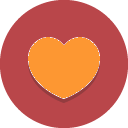
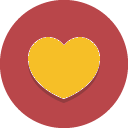
Implemented db save to favorites and updated workflow

Changed region(s): [[0.2188, 0.2812, 0.7812, 0.7812]]

diff --git a/flaskapp/templates/results.html b/flaskapp/templates/results.html
@@ -3,7 +3,7 @@
 
 {% block page_content %}
 
-<div class="page-heiader">
+<div class="page-header">
     <h1>Matches</h1>
 </div>
 
@@ -29,11 +29,11 @@
             {% if not agency.email==None %}
                 <li>{{ agency.email }} </li>
             {% endif %}
-            <li><a href="{{ agency.website }}">{{ agency.website}}</a></li>
+            <li><a href="http://{{ agency.website }}">{{ agency.website}}</a></li>
         </ul>
     </div>
     <div class="col-md-2 text-center"><strong>Save to Favorites!</strong><br><br>
-        <img width="75px" class="save_icon" data-pup="{{pup.id}}" data-agency="{{agency.id}}" src="{{url_for('static', filename='images/buttons/heart.png')}}">
+        <img width="75px" class="save_icon" data-pup="{{pup.id}}" src="{{url_for('static', filename='images/buttons/heart.png')}}">
     </div>
 </div>
 </form>
@@ -48,11 +48,14 @@
 var addToFavorites = function(e){
     var item = e.target;
     var pup_id = item.dataset.pup;
-    var agency_id = item.dataset.agency;
     item.src ="static/images/buttons/heart-yellow.png" 
     
-
-
+    //Create post request to add favorite to db
+    var http = new XMLHttpRequest();
+    http.open("POST", "add", true);
+    var params = "pup_id="+pup_id;
+    http.setRequestHeader("Content-type", "application/x-www-form-urlencoded");
+    http.send(params);
 }
 
 var save_icons = document.getElementsByClassName("save_icon");

diff --git a/flaskapp/templates/favorites.html b/flaskapp/templates/favorites.html
@@ -15,4 +15,36 @@ Here is a list of your favorite matches!
 {% endif %}
 </h3>
 
+{% for agency, pup in results %}
+<div class="row" style="padding-bottom:20px; padding-top:20px; border-bottom:20px; border-bottom: 1px solid #F1A000;">
+    <div class="col-md-2"><img style="max-width:175px; max-height=200px;" src="{{url_for('static', filename='images/pups/pic_%s.jpeg' % pup.id)}}"></div>
+    <div class="col-md-6">
+        <div class="row">
+            <div class="col-md-12 text-left"><h4>{{ pup.name}}</h4></div>
+        </div> 
+        <div class="row">
+            <div class="col-md-12 text-left">{{ pup.desc }} </div>
+        </div>
+    </div>
+    <div class="col-md-1"><img src="{{url_for('static', filename='images/agency/icon_%s.jpeg' % agency.id)}}"></div>
+    <div class="col-md-2 text-left">
+        <ul style="list-style-type:none">
+            <li><strong>{{ agency.name }}</strong></li>
+            <li>{{ agency.address }} </li>
+            {% if not agency.phone==None %}
+                <li>{{ agency.phone }} </li>
+            {% endif %}
+            {% if not agency.email==None %}
+                <li>{{ agency.email }} </li>
+            {% endif %}
+            <li><a href="http://{{ agency.website }}">{{ agency.website}}</a></li>
+        </ul>
+    </div>
+</div>
+</form>
+{% endfor %}
 {% endblock %}
+
+
+
+

diff --git a/flaskapp/views/favorites.py b/flaskapp/views/favorites.py
@@ -1,18 +1,23 @@
 from flask import render_template, redirect, url_for, request
-from flaskapp import app
+from flaskapp import app,db
+from ..models import User, Matches
+from flask.ext.login import current_user
 
 @app.route('/favorites')
 def favorites():
     """ Favorites page """
-
-    return render_template(
-        'favorites.html',
-    )
+    user = User.query.filter(User.id == current_user.get_id()).one()
+    results = []
+    for favorite in user.matches:
+        results.append((favorite.adoptable.agency,favorite.adoptable))
+    return render_template('favorites.html', results=results)
 
 @app.route('/add', methods=['POST'])
 def add_to_favorites():
-    form = request.form
-    print form['pup_id']
-    #if form.is_submitted()
-    #return redirect(url_for('results'))
-    return "",201
+    print "did I get here"
+    favorite = Matches()
+    favorite.adopt_id = request.form['pup_id']
+    favorite.user_id = current_user.get_id()
+    db.session.add(favorite)
+    db.session.commit()
+    return "",201 

diff --git a/flaskapp/models.py b/flaskapp/models.py
@@ -126,6 +126,7 @@ class Adoptable(db.Model):
     name = db.Column(db.String(64))
     desc = db.Column(db.Text())
     agency_id = db.Column(db.Integer, db.ForeignKey('agency.id'))
+    match = db.relationship('Matches', backref='adoptable')
 
     def __repr__(self):
         return '<Adoptable %r>' % self.name
@@ -135,6 +136,6 @@ class Matches(db.Model):
     id = db.Column(db.Integer, primary_key=True)
     user_id = db.Column(db.Integer, db.ForeignKey('users.id'))
     adopt_id = db.Column(db.Integer, db.ForeignKey('adopt.id'))
-
-
         
+    def __repr__(self):
+        return 'user: %r adopt: %r' % (self.user_id,self.adopt_id)

diff --git a/flaskapp/views/find.py b/flaskapp/views/find.py
@@ -11,9 +11,9 @@ from ..models import User
 def find():
     """ Search page """
     referrer =  request.referrer.rsplit('/',1)[-1]
-    if referrer == ('login'):
-        return redirect(url_for('home'))
     profile_set = db.session.query(User.profile_id).filter(User.id==current_user.get_id()).scalar()
+    if referrer == ('login') and profile_set:
+       return redirect(url_for('home'))
     if profile_set is not None:
         return redirect(url_for('results'))
     form = CriteriaForm()
